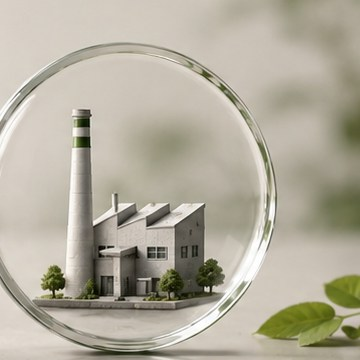
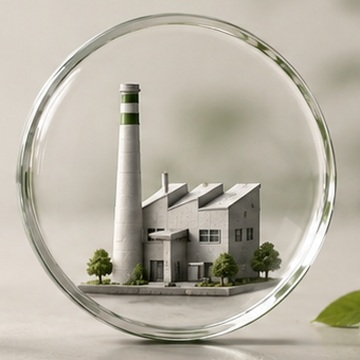
fix: center impact dish crops and allow Google sign-in

diff --git a/index.html b/index.html
@@ -4,7 +4,7 @@
     <meta charset="UTF-8" />
     <meta
       http-equiv="Content-Security-Policy"
-      content="default-src 'self'; script-src 'self' 'unsafe-inline' 'wasm-unsafe-eval' https://www.googletagmanager.com https://www.google-analytics.com https://www.gstatic.com https://static.cloudflareinsights.com; style-src 'self' 'unsafe-inline' https://api.fontshare.com https://fonts.googleapis.com; font-src 'self' data: https://api.fontshare.com https://cdn.fontshare.com https://fonts.gstatic.com; img-src 'self' data: https: blob:; connect-src 'self' https://whitedot-limex-backend.onrender.com http://localhost:4000 https://api.fontshare.com https://www.google-analytics.com https://analytics.google.com https://www.gstatic.com https://static.cloudflareinsights.com blob:; worker-src 'self' blob:; child-src 'self' blob:; media-src 'self' https:; object-src 'none'; base-uri 'self';"
+      content="default-src 'self'; script-src 'self' 'unsafe-inline' 'wasm-unsafe-eval' https://accounts.google.com https://www.googletagmanager.com https://www.google-analytics.com https://www.gstatic.com https://static.cloudflareinsights.com; style-src 'self' 'unsafe-inline' https://api.fontshare.com https://fonts.googleapis.com; font-src 'self' data: https://api.fontshare.com https://cdn.fontshare.com https://fonts.gstatic.com; img-src 'self' data: https: blob:; connect-src 'self' https://whitedot-limex-backend.onrender.com http://localhost:4000 https://accounts.google.com https://api.fontshare.com https://www.google-analytics.com https://analytics.google.com https://www.gstatic.com https://static.cloudflareinsights.com blob:; frame-src 'self' https://accounts.google.com blob:; worker-src 'self' blob:; child-src 'self' https://accounts.google.com blob:; media-src 'self' https:; object-src 'none'; base-uri 'self';"
     />
     <meta name="viewport" content="width=device-width, initial-scale=1.0" />
     <meta

diff --git a/src/cinematic-v2/sections/StoryScenes.tsx b/src/cinematic-v2/sections/StoryScenes.tsx
@@ -155,11 +155,11 @@ export function SceneImpact({ active }: SceneProps) {
               <defs>
                 <radialGradient id={`wds5-g-${item.id}`}>
                   <stop offset="0" stopColor="#fff" />
-                  <stop offset="0.86" stopColor="#fff" />
+                  <stop offset="0.94" stopColor="#fff" />
                   <stop offset="1" stopColor="#fff" stopOpacity="0" />
                 </radialGradient>
                 <mask id={`wds5-m-${item.id}`} maskUnits="userSpaceOnUse">
-                  <circle cx="180" cy="180" r="162" fill={`url(#wds5-g-${item.id})`} />
+                  <circle cx="180" cy="180" r="176" fill={`url(#wds5-g-${item.id})`} />
                 </mask>
               </defs>
               <ellipse className="wds5-reflect" cx="180" cy="356" rx="128" ry="20" />
